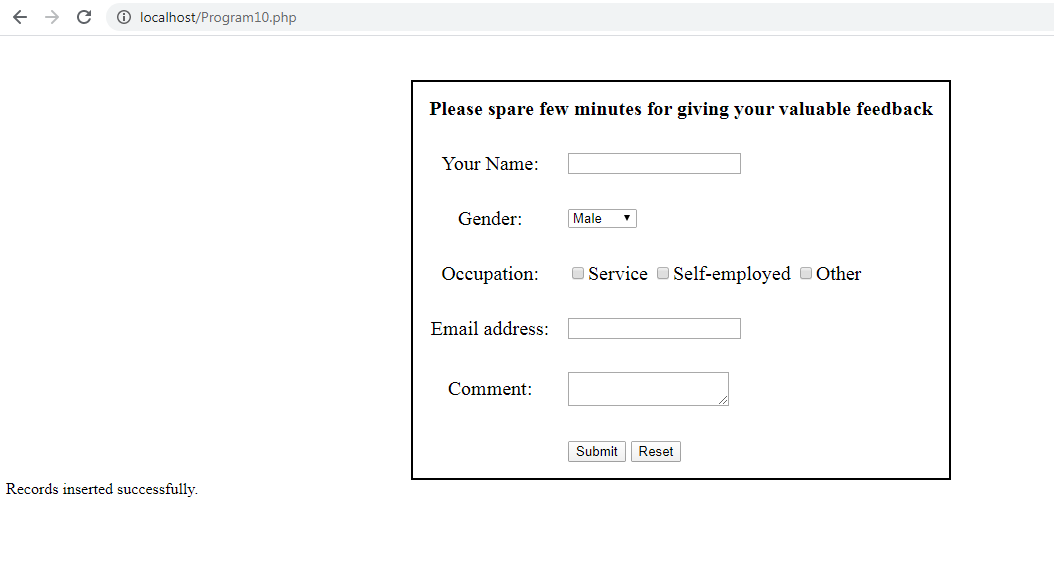
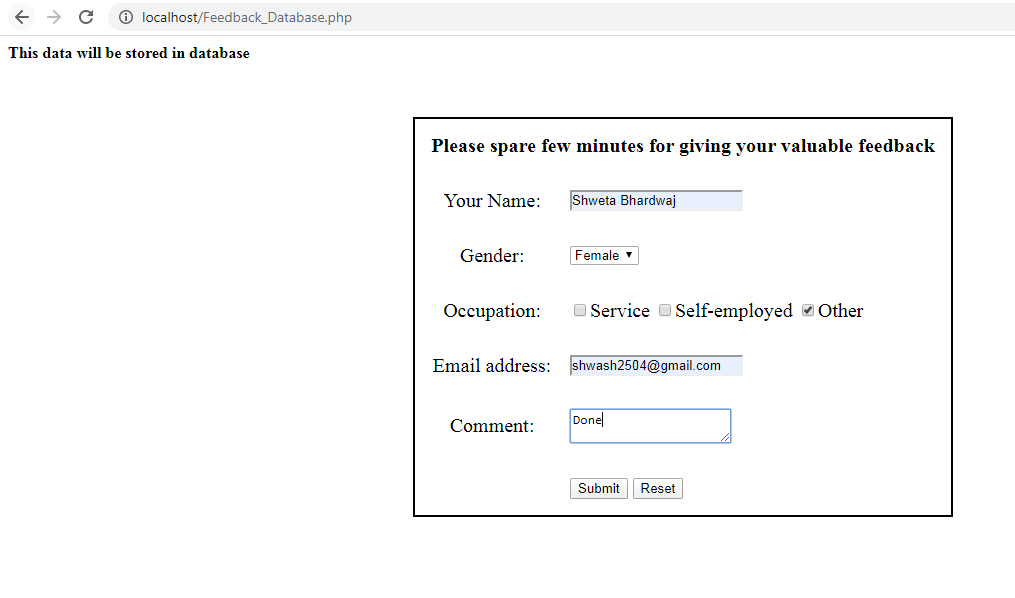
Added tenth file

diff --git a/Code/Program10.php b/Code/Program10.php
@@ -1,98 +1,23 @@
 <html>
-    <head>
-        <title>Feedback</title>
-        <style>
-           table {
-               border: 2px solid black;
-               border-collapse: collapse;
-               border-spacing: 50px;
-               height: 400px;
-               font-size: 20;
-               font-size: bold;
-               }
-        </style>
-    </head>
-    <body> 
-        <h3 align ="center"> </h3>
-        <form method = "post" action="Program10.php">
-            <br><br>
-            <table align = "center" width="40%">
-                <th colspan="2">
-                    Please spare few minutes for giving your valuable feedback
-                </th>
-                <tr>
-                    <td align="center">Your Name:</td>
-                    <td align="left"><input type="text" name="name" ></td>
-                </tr>
-                <tr>
-                    <td align="center">Gender:</td>
-                    <td align="left">
-                        <select name="gender" size="1">
-                           <option value="M">Male</option>
-                           <option value="F">Female</option>
-                        </select>
-                    </td>
-               </tr>
-               <tr>
-                   <td align="center">Occupation:</td>
-                   <td align="left">
-                       <input type="checkbox" name="occupation" value="Service">Service
-	     <input type="checkbox" name="occupation" value="Self-employed">Self-employed
-	     <input type="checkbox" name="occupation" value="Other">Other</td>
-               </tr>
-               <tr>
-                   <td align ="center">Email address:</td>
-                   <td align ="left"><input type="text" name="email"></td>
-               </tr>
-               <tr>
-                   <td align ="center">Comment:</td>
-                   <td align="left">
-                       <textarea name = "comment" wrap="hard" maxlength = "1000"></textarea>
-                    </td>
-                </tr>
-                <tr>
-                    <td align = "center"><emsp</td>
-                    <td align = "left">
-                       <input type="submit" value= "Submit" name="submit">
-                       <input type="reset" value="Reset">
-                   </td> 
-               </tr>
-           </table>
-       
-
-      <?php 
-           if(isset($_POST["name"]))
-               $name=$_POST["name"];
-           if(isset($_POST["occupation"]))
-               $occupation=$_POST["occupation"];
-           if(isset($_POST["gender"]))
-               $gender=$_POST["gender"];
-           if(isset($_POST["comment"]))
-               $comment=$_POST["comment"];
-           if(isset($_POST["email"]))
-               $email=$_POST["email"]; 
-           if(isset($_POST["submit"]))
-           {
-                $link = mysqli_connect("localhost", "root", "", "feedback");
- 
-// Check connection
-if($link === false){
-    die("ERROR: Could not connect. " . mysqli_connect_error());
-}
- 
-// Attempt insert query execution
-$sql = "INSERT INTO feedback VALUES('$name',  '$gender',  '$occupation', '$email', '$comment')";
-if(mysqli_query($link, $sql)){
-    echo "Records inserted successfully.";
-} else{
-    echo "ERROR: Could not able to execute $sql. " . mysqli_error($link);
-}
- 
-// Close connection
-mysqli_close($link);
-}
-      
-      ?>   
-</form>
-   </body>
+    <body>
+    <div class="menu">  
+        <?php 
+            require 'header.php';
+        ?>
+        <h1>Welcome to my home page!</h1>
+        <br>
+        <br>
+        <a href = "http://localhost/Login.php">Login</a>
+        <br>
+        <a href = "http://localhost/First.php">About me</a>    
+        <br>
+        <a href = "http://localhost/Second.php">Interesting fact</a>
+        <br>
+        <a href = "http://localhost/Feedback_Database.php">Feedback</a>
+        <br>
+    </div>
+        <?php   
+            include 'footer.php';
+        ?>
+    </body>
 </html>

diff --git a/Code/Feedback_Database.php b/Code/Feedback_Database.php
@@ -1,0 +1,99 @@
+<html>
+    <head>
+        <title>Feedback</title>
+        <style>
+           table {
+               border: 2px solid black;
+               border-collapse: collapse;
+               border-spacing: 50px;
+               height: 400px;
+               font-size: 20;
+               font-size: bold;
+               }
+        </style>
+    </head>
+    <body> 
+        <strong>This data will be stored in database</strong>
+        <h3 align ="center"> </h3>
+        <form method = "post" action="Feedback_Database.php">
+            <br><br>
+            <table align = "center" width="40%">
+                <th colspan="2">
+                    Please spare few minutes for giving your valuable feedback
+                </th>
+                <tr>
+                    <td align="center">Your Name:</td>
+                    <td align="left"><input type="text" name="name" ></td>
+                </tr>
+                <tr>
+                    <td align="center">Gender:</td>
+                    <td align="left">
+                        <select name="gender" size="1">
+                           <option value="M">Male</option>
+                           <option value="F">Female</option>
+                        </select>
+                    </td>
+               </tr>
+               <tr>
+                   <td align="center">Occupation:</td>
+                   <td align="left">
+                       <input type="checkbox" name="occupation" value="Service">Service
+	     <input type="checkbox" name="occupation" value="Self-employed">Self-employed
+	     <input type="checkbox" name="occupation" value="Other">Other</td>
+               </tr>
+               <tr>
+                   <td align ="center">Email address:</td>
+                   <td align ="left"><input type="text" name="email"></td>
+               </tr>
+               <tr>
+                   <td align ="center">Comment:</td>
+                   <td align="left">
+                       <textarea name = "comment" wrap="hard" maxlength = "1000"></textarea>
+                    </td>
+                </tr>
+                <tr>
+                    <td align = "center"><emsp</td>
+                    <td align = "left">
+                       <input type="submit" value= "Submit" name="submit">
+                       <input type="reset" value="Reset">
+                   </td> 
+               </tr>
+           </table>
+       
+
+      <?php 
+           if(isset($_POST["name"]))
+               $name=$_POST["name"];
+           if(isset($_POST["occupation"]))
+               $occupation=$_POST["occupation"];
+           if(isset($_POST["gender"]))
+               $gender=$_POST["gender"];
+           if(isset($_POST["comment"]))
+               $comment=$_POST["comment"];
+           if(isset($_POST["email"]))
+               $email=$_POST["email"]; 
+           if(isset($_POST["submit"]))
+           {
+                $link = mysqli_connect("localhost", "root", "", "feedback");
+ 
+// Check connection
+if($link === false){
+    die("ERROR: Could not connect. " . mysqli_connect_error());
+}
+ 
+// Attempt insert query execution
+$sql = "INSERT INTO feedback VALUES('$name',  '$gender',  '$occupation', '$email', '$comment')";
+if(mysqli_query($link, $sql)){
+    echo "Records inserted successfully.";
+} else{
+    echo "ERROR: Could not able to execute $sql. " . mysqli_error($link);
+}
+ 
+// Close connection
+mysqli_close($link);
+}
+      
+      ?>   
+</form>
+   </body>
+</html>
